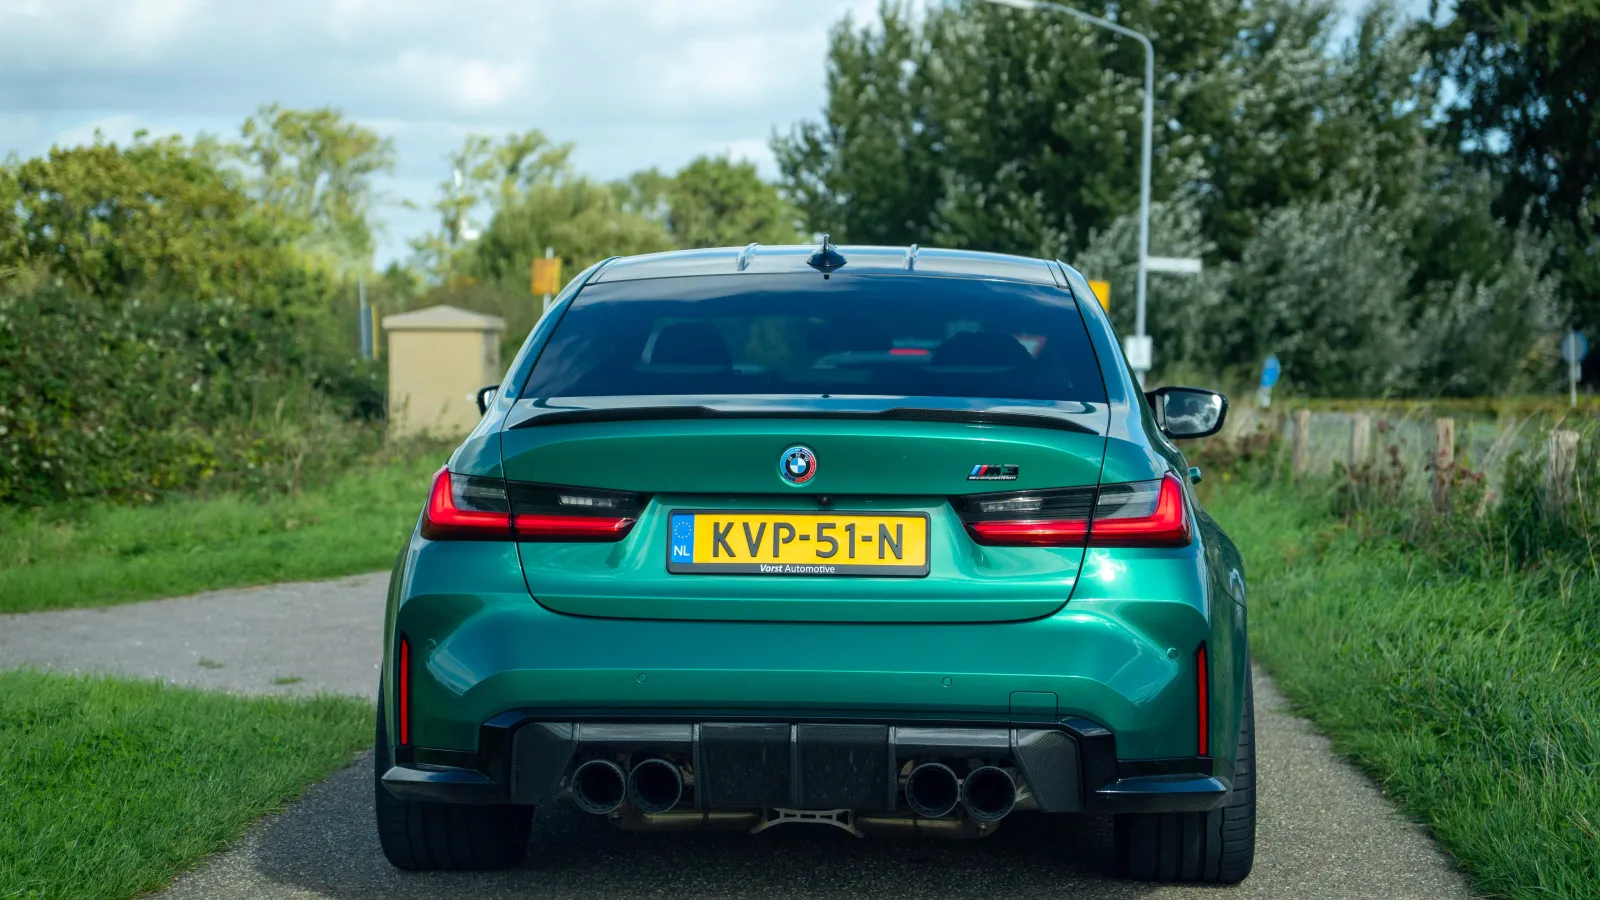
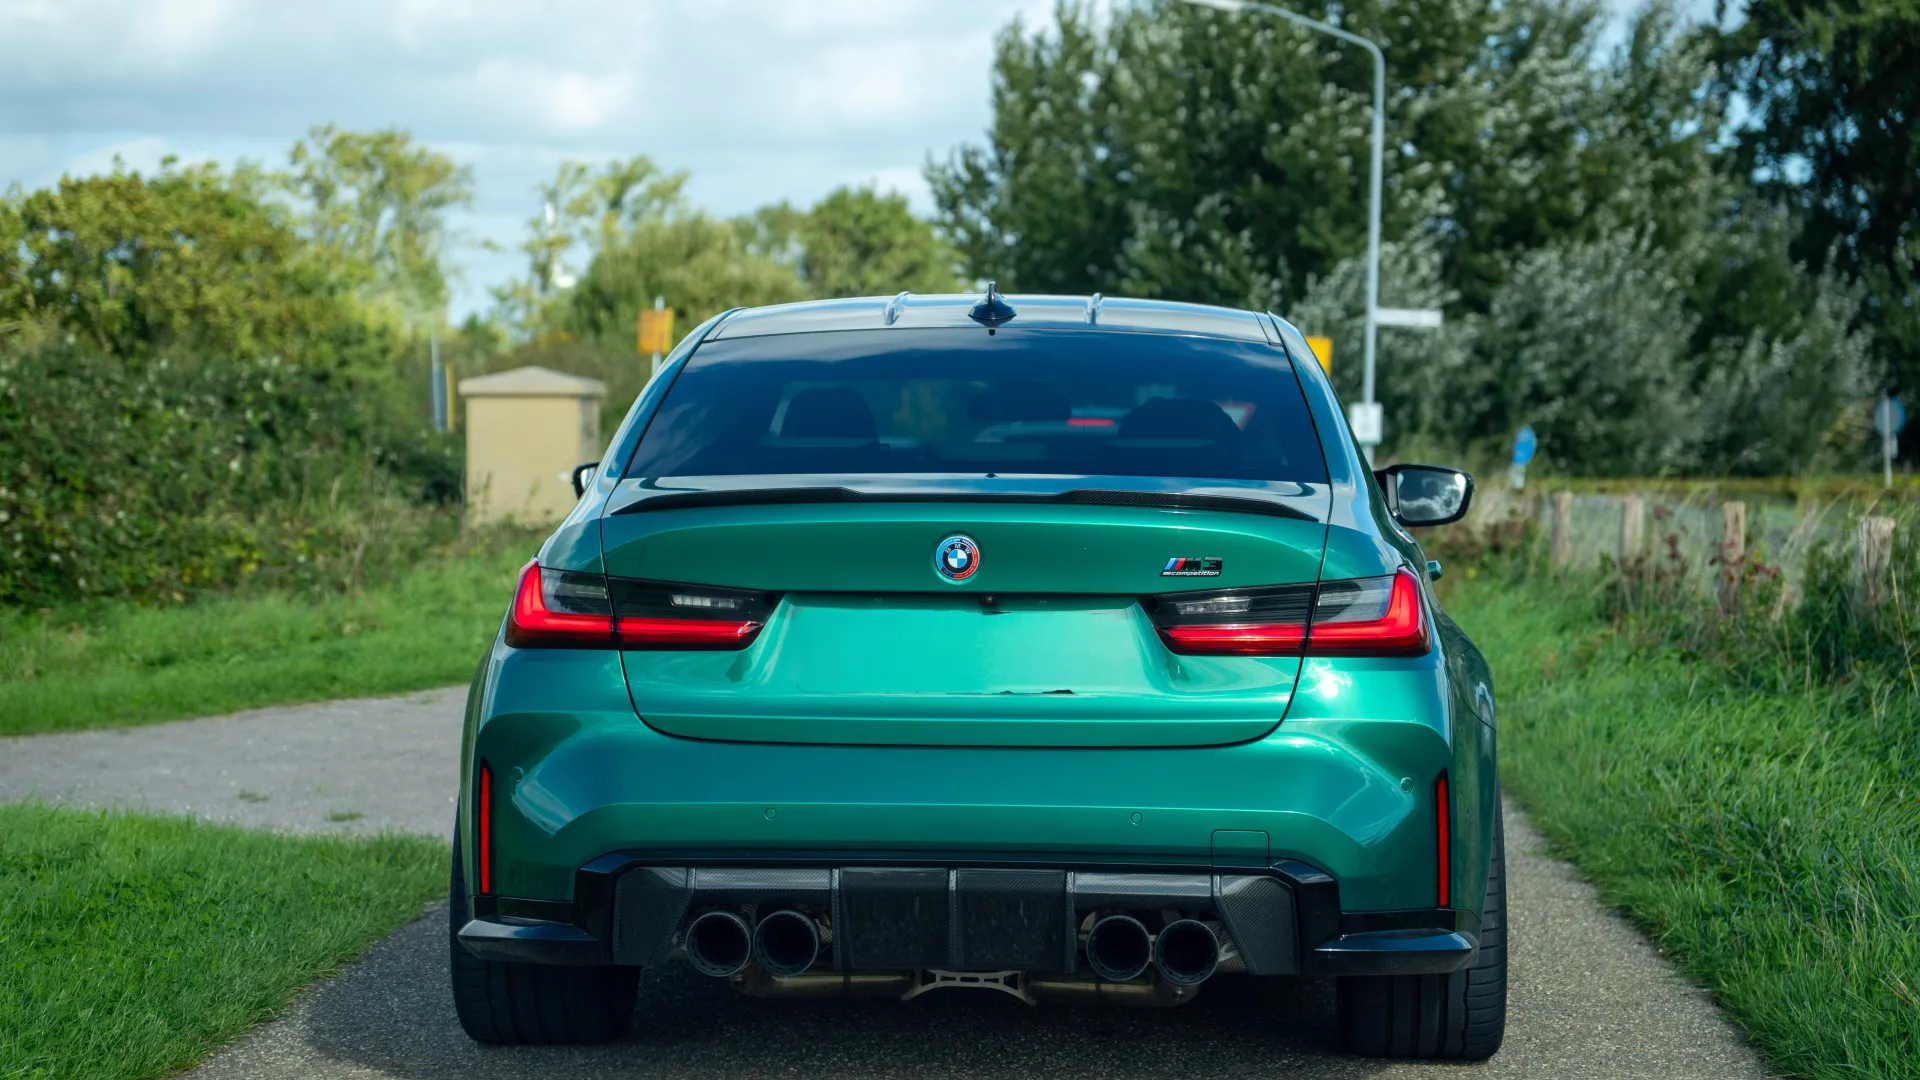
Convert detailing and full-wrap tile photos to webp

Changed region(s): [[0.4062, 0.56, 0.5938, 0.6533]]

diff --git a/src/data/servicePhotos.js b/src/data/servicePhotos.js
@@ -4,14 +4,14 @@ export const servicePhotos = {
   'ceramic-coating': photo("WhatsApp Image 2026-10-02 at 23.31.36.webp"),
   'ppf': photo("WhatsApp Image 2026-09-20 at 23.07.08 (1).webp"),
   'paint-correction': photo("WhatsApp Image 2026-09-20 at 23.07.12 (2).webp"),
-  'general-detailing': photo("WhatsApp Image 2026-09-20 at 23.07.04 (3).png"),
+  'general-detailing': photo("WhatsApp Image 2026-09-20 at 23.07.04 (3).webp"),
   'glass-coating': photo("WhatsApp Image 2026-09-20 at 23.06.58.webp"),
   'wheel-coating': photo("WhatsApp Image 2026-09-20 at 23.07.04 (5).webp"),
   'deep-cleaning': photo("image00013.webp"),
   'leather-treatment': photo("image00013.webp"),
   'alcantara-care': photo("image00013.webp"),
   'odor-removal': photo("image00013.webp"),
-  'full-wrap': photo("WhatsApp Image 2026-09-20 at 23.07.01 (1).png"),
+  'full-wrap': photo("WhatsApp Image 2026-09-20 at 23.07.01 (1).webp"),
   'accent-wraps': photo("WhatsApp Image 2026-09-20 at 23.07.01.webp"),
   'aesthetic-upgrades': photo("WhatsApp Image 2026-09-20 at 23.07.04 (5).webp"),
   'tinting': photo("WhatsApp Image 2026-09-20 at 23.06.55 (1).webp"),
